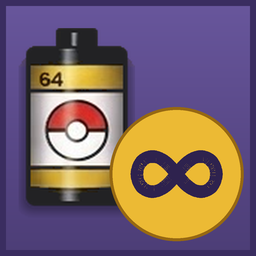
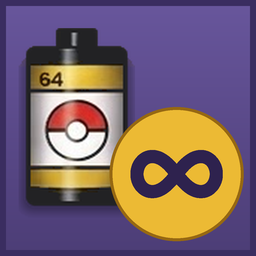
Island Skies' badge shows every sky, and the infinity loop is whole
The sun, the moon, a storm cloud with rain and a bolt, and a snowflake,
one stroke weight, at the badge's four corners, over the family's tile.
Unlimited Film's loop was a joined line with gold pinholes; it is a
stamped curve now.

diff --git a/tools/make_icons.py b/tools/make_icons.py
@@ -1,11 +1,8 @@
 """The mods' 256x256 icons (mods/<name>/thunderstore/icon.png), one family:
 the port's blue-violet tile and its film canister, both taken from the
 port's own logo with the port's own tools/icon_gen.py, and a gold badge at
-the lower right with the mod's sign drawn on it. Island Skies has its own
-four skies behind the canister instead of the plain tile, inside the same
-rim: the Beach's sunset, night, dawn and day as the mod draws them
-(mods/island_skies/tools/sky, square cuts of captured frames, no HUD). The
-same picture is each mod's thumb.png, the one its details page shows.
+the lower right with the mod's sign drawn on it. Nothing of the game's.
+The same picture is each mod's thumb.png, the one its details page shows.
 
     python tools/make_icons.py <Snap64Recomp checkout>
 
@@ -29,26 +26,12 @@ GOLD_EDGE = (150, 104, 18)
 INK = (46, 34, 78)          # the tile's darkest violet, for the signs
 
 
-def sky_quads(folder, big):
-    """Four square skies as the tile's face: sunset and night above, dawn
-    and day below, the night at the upper right where the canister and
-    the badge leave the most of it showing."""
-    quads = Image.new("RGBA", (big, big), (0, 0, 0, 255))
-    q = big // 2
-    for i, name in enumerate(("sunset", "night", "dawn", "day")):
-        sky = Image.open(os.path.join(folder, name + ".png")).convert("RGBA").resize((q, q), Image.LANCZOS)
-        quads.paste(sky, ((i % 2) * q, (i // 2) * q))
-    return quads
-
-
-def base_with_canister(skies_folder=None):
+def base_with_canister():
     logo = Image.open(ig.LOGO).convert("RGBA")
     can = ig.cut_canister(logo)
     can = can.crop(ig.alpha_bbox(can))
-    tile, face = ig.tile(S)                  # drawn at ig.SS times the size
+    tile, _ = ig.tile(S)                     # drawn at ig.SS times the size
     big = tile.size[0]
-    if skies_folder is not None:
-        tile.paste(sky_quads(skies_folder, big), (0, 0), face)   # inside the rim
     h = round(big * 0.74)
     w = round(can.width * h / can.height)
     can = can.resize((w, h), Image.LANCZOS)
@@ -64,15 +47,29 @@ def badge(img):
     return d, cx, cy, r
 
 
+def stamp(d, pts, width, color=INK):
+    """A stroke as discs stamped along its points: no joins, so no pinholes
+    (a joined line left gold specks all along the infinity loop)."""
+    h = width / 2.0
+    for x, y in pts:
+        d.ellipse((x - h, y - h, x + h, y + h), fill=(*color, 255))
+
+
+def seg(d, p0, p1, width, color=INK):
+    """A straight stroke with round ends."""
+    n = max(2, int(math.hypot(p1[0] - p0[0], p1[1] - p0[1]) / (width * 0.25)) + 1)
+    stamp(d, [(p0[0] + (p1[0] - p0[0]) * i / (n - 1), p0[1] + (p1[1] - p0[1]) * i / (n - 1)) for i in range(n)], width, color)
+
+
 def infinity(img):
     d, cx, cy, r = badge(img)
     a = r * 0.62
     pts = []
-    for i in range(721):
-        t = 2 * math.pi * i / 720
+    for i in range(1440):
+        t = 2 * math.pi * i / 1440
         den = 1 + math.sin(t) ** 2
         pts.append((cx + a * math.cos(t) / den, cy + a * math.sin(t) * math.cos(t) / den * 1.25))
-    d.line(pts, fill=(*INK, 255), width=round(r * 0.20), joint="curve")
+    stamp(d, pts, r * 0.20)
 
 
 def open_padlock(img):
@@ -110,26 +107,56 @@ def crescent(img):
                (sx, sy + sl), (sx - ss, sy + ss), (sx - sl, sy), (sx - ss, sy - ss)], fill=(*INK, 255))
 
 
+def disc(d, x, y, rad, color=INK):
+    d.ellipse((x - rad, y - rad, x + rad, y + rad), fill=(*color, 255))
+
+
 def skies(img):
-    """A crescent moon and a small sun: every hour's sign."""
+    """Every hour and every weather: the sun and the moon above, a storm
+    cloud with rain and a bolt and a snowflake below, four marks of one
+    weight set at the badge's four corners."""
     d, cx, cy, r = badge(img)
-    mr = r * 0.46
-    mx, my = cx - r * 0.22, cy + r * 0.12
-    d.ellipse((mx - mr, my - mr, mx + mr, my + mr), fill=(*INK, 255))
-    bx, by, br = mx + mr * 0.42, my - mr * 0.28, mr * 0.86
-    d.ellipse((bx - br, by - br, bx + br, by + br), fill=(*GOLD, 255))
-    # The sun, upper right: a disc with eight short rays.
-    sx, sy, sr = cx + r * 0.42, cy - r * 0.42, r * 0.17
-    d.ellipse((sx - sr, sy - sr, sx + sr, sy + sr), fill=(*INK, 255))
+    w = r * 0.055                            # the one stroke width
+
+    # The sun, upper left: a disc with eight rays.
+    sx, sy = cx - r * 0.44, cy - r * 0.42
+    disc(d, sx, sy, r * 0.13)
     for k in range(8):
         a = k * math.pi / 4
-        x0, y0 = sx + math.cos(a) * sr * 1.35, sy + math.sin(a) * sr * 1.35
-        x1, y1 = sx + math.cos(a) * sr * 1.95, sy + math.sin(a) * sr * 1.95
-        d.line((x0, y0, x1, y1), fill=(*INK, 255), width=max(2, int(r * 0.05)))
+        seg(d, (sx + math.cos(a) * r * 0.20, sy + math.sin(a) * r * 0.20),
+            (sx + math.cos(a) * r * 0.30, sy + math.sin(a) * r * 0.30), w)
+
+    # The moon, upper right: a disc with its dark cut back out in gold.
+    mx, my, mr = cx + r * 0.44, cy - r * 0.42, r * 0.24
+    disc(d, mx, my, mr)
+    disc(d, mx + mr * 0.42, my - mr * 0.28, mr * 0.86, GOLD)
+
+    # The storm cloud, lower left: three lobes on a flat base, and under
+    # it a bolt between two drops of rain.
+    ex, ey = cx - r * 0.42, cy + r * 0.26
+    disc(d, ex - r * 0.14, ey, r * 0.13)
+    disc(d, ex + r * 0.01, ey - r * 0.08, r * 0.16)
+    disc(d, ex + r * 0.16, ey + r * 0.01, r * 0.12)
+    d.rectangle((ex - r * 0.14, ey, ex + r * 0.16, ey + r * 0.12), fill=(*INK, 255))
+    bolt = [(0.05, 0.00), (-0.06, 0.17), (0.01, 0.17), (-0.05, 0.32), (0.08, 0.13), (0.01, 0.13)]
+    d.polygon([(ex + r * bx, ey + r * (0.14 + by)) for bx, by in bolt], fill=(*INK, 255))
+    for dx in (-0.17, 0.17):
+        seg(d, (ex + r * dx, ey + r * 0.18), (ex + r * (dx - 0.04), ey + r * 0.30), w)
+
+    # The snowflake, lower right: six arms, each with a pair of branches.
+    fx, fy = cx + r * 0.44, cy + r * 0.40
+    for k in range(6):
+        a = k * math.pi / 3
+        ux, uy = math.cos(a), math.sin(a)
+        seg(d, (fx, fy), (fx + ux * r * 0.22, fy + uy * r * 0.22), w)
+        bx, by = fx + ux * r * 0.13, fy + uy * r * 0.13
+        for side in (-1, 1):
+            b = a + side * math.pi / 3
+            seg(d, (bx, by), (bx + math.cos(b) * r * 0.08, by + math.sin(b) * r * 0.08), w)
 
 
-def write(name, sign, skies_folder=None):
-    img = base_with_canister(skies_folder)
+def write(name, sign):
+    img = base_with_canister()
     sign(img)
     small = img.resize((S, S), Image.LANCZOS).convert("RGB")
     for out in (os.path.join(ROOT, "mods", name, "thunderstore", "icon.png"),
@@ -141,4 +168,4 @@ def write(name, sign, skies_folder=None):
 
 write("unlimited_film", infinity)
 write("unlock_everything", open_padlock)
-write("island_skies", skies, os.path.join(ROOT, "mods", "island_skies", "tools", "sky"))
+write("island_skies", skies)
